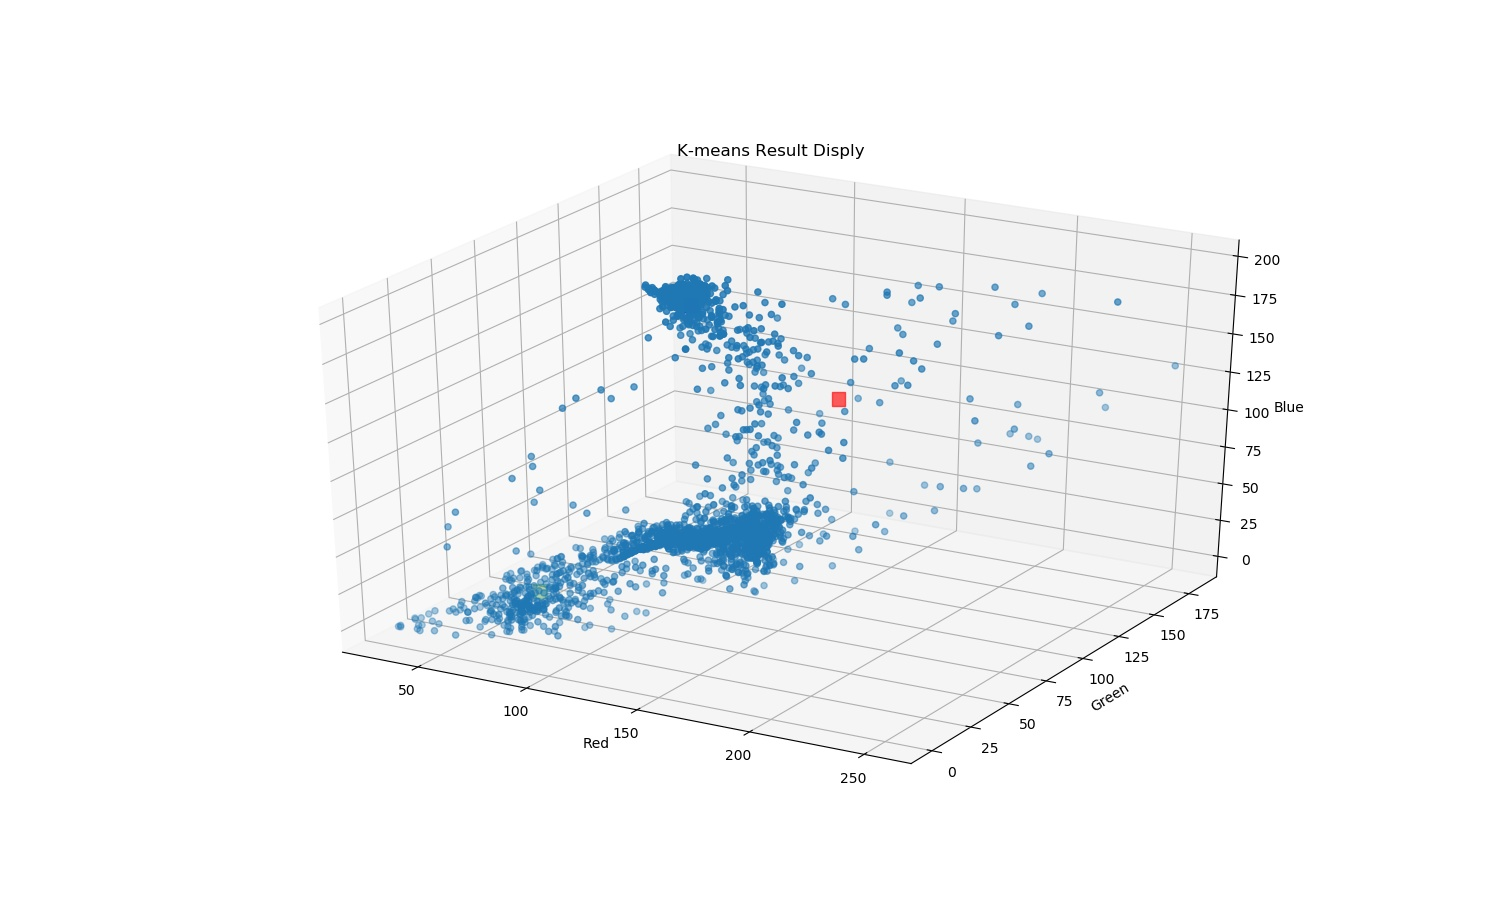
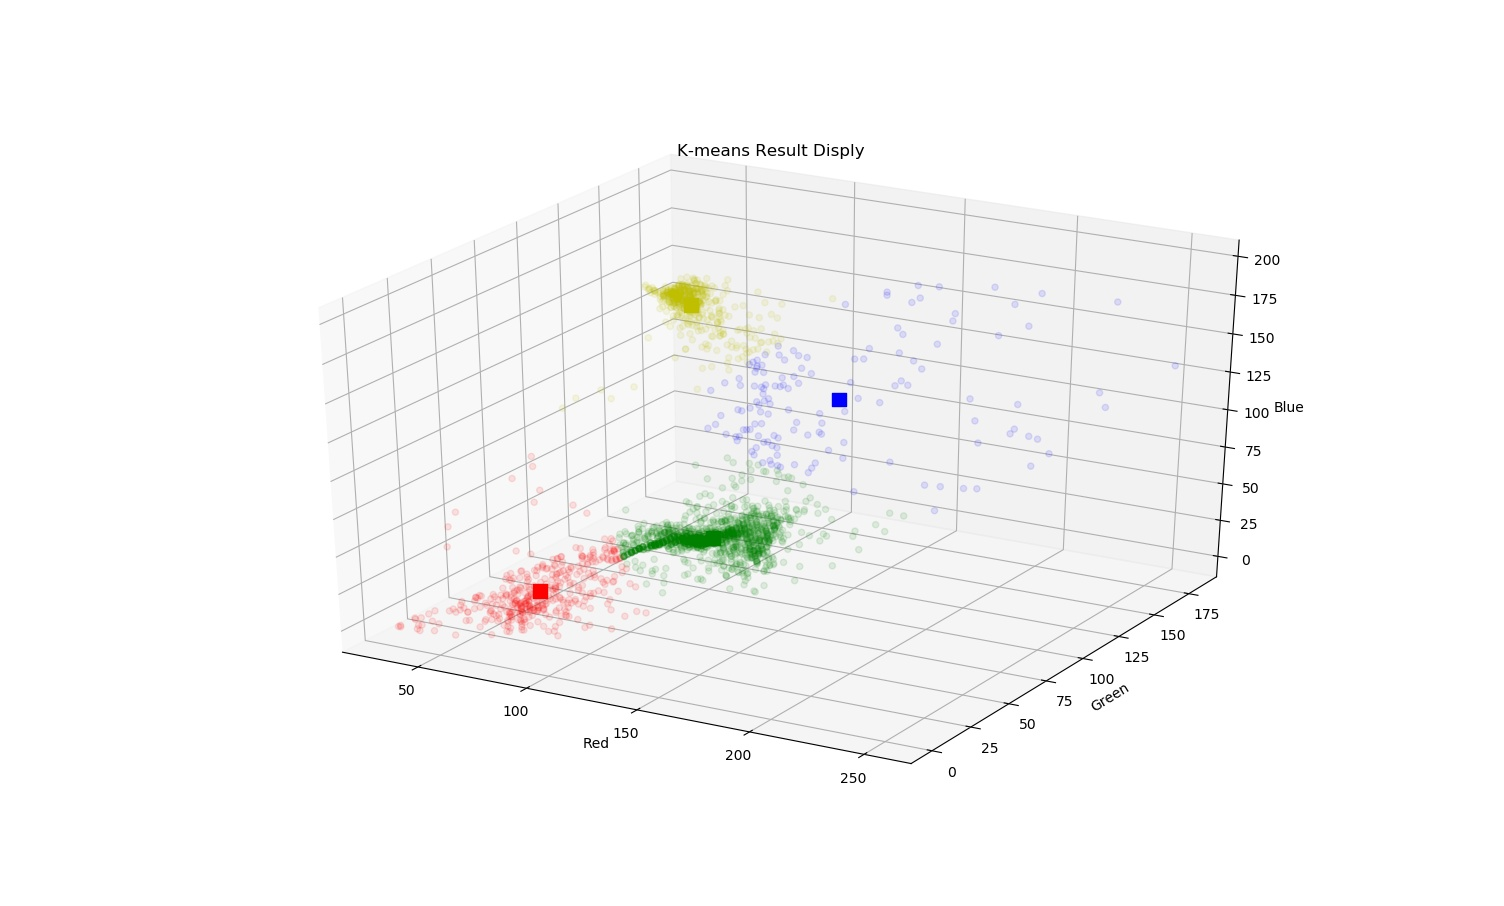
update

diff --git a/python/MCS/k-means.py b/python/MCS/k-means.py
@@ -7,7 +7,7 @@ from sklearn.cluster import KMeans
 
 #data = np.random.rand(100, 3)
 data = []
-im = Image.open(r'..\image\a.jpg')
+im = Image.open(r'..\image\c.jpg')
 pix = im.load()
 width = im.size[0]
 height = im.size[1]
@@ -17,23 +17,31 @@ for x in range(width):
         data.append([r, g, b])
 
 data = np.array(data)
-print(data)
+
 # K-means聚类获取数据
 estimator = KMeans(n_clusters=4)            # 构造聚类器
 estimator.fit(data)                         # 聚类
 label_pred = estimator.labels_              # 获取聚类标签
 centroids = estimator.cluster_centers_      # 获取聚类中心
 inertia = estimator.inertia_                # 获取聚类准则的总和
-print(label_pred)
+#print(label_pred)
 print(centroids)
-print(inertia)
+#print(inertia)
 
 # 绘制结果
 ax = plt.subplot(projection='3d')  # 创建一个三维的绘图工程
 plt.title("K-means Result Disply")
+'''
+color_list = []
+for i in centroids:
+    color_list.append(i/256)
+'''
+color_list=['r','y','g','b']
 
-color_list = ['r', 'y', 'g', 'b']
-ax.scatter(data[:, 0], data[:, 1], data[:, 2], alpha=0.1)
+points = []
+for i in label_pred:
+    points.append(color_list[i])
+ax.scatter(data[:, 0], data[:, 1], data[:, 2], c=points, alpha=0.1)
 ax.scatter(centroids[:, 0], centroids[:, 1], centroids[:, 2],
            marker='s', c=color_list, s=100, alpha=1)
 
@@ -43,6 +51,6 @@ ax.set_zlabel('Blue')  # 坐标轴
 ax.set_ylabel('Green')
 ax.set_xlabel('Red')
 plt.draw()
-plt.pause(100)
-plt.savefig('../3D View/K-means.jpg')
+plt.pause(2)
+plt.savefig('../3D View/K-means2.jpg')
 plt.close()

diff --git a/python/MCS/rgb_show.py b/python/MCS/rgb_show.py
@@ -9,7 +9,7 @@ g_list = []
 b_list = []
 color_list = []
 # 读取图片，保存RGB至list中
-im = Image.open(r'image\a.jpg')
+im = Image.open(r'..\image\c.jpg')
 pix = im.load()
 width = im.size[0]
 height = im.size[1]
@@ -33,5 +33,5 @@ ax.set_xlabel('Red')
 
 plt.draw()
 plt.pause(2)
-plt.savefig('3D View/3D.jpg')
+plt.savefig('../3D View/3D2.jpg')
 plt.close()
